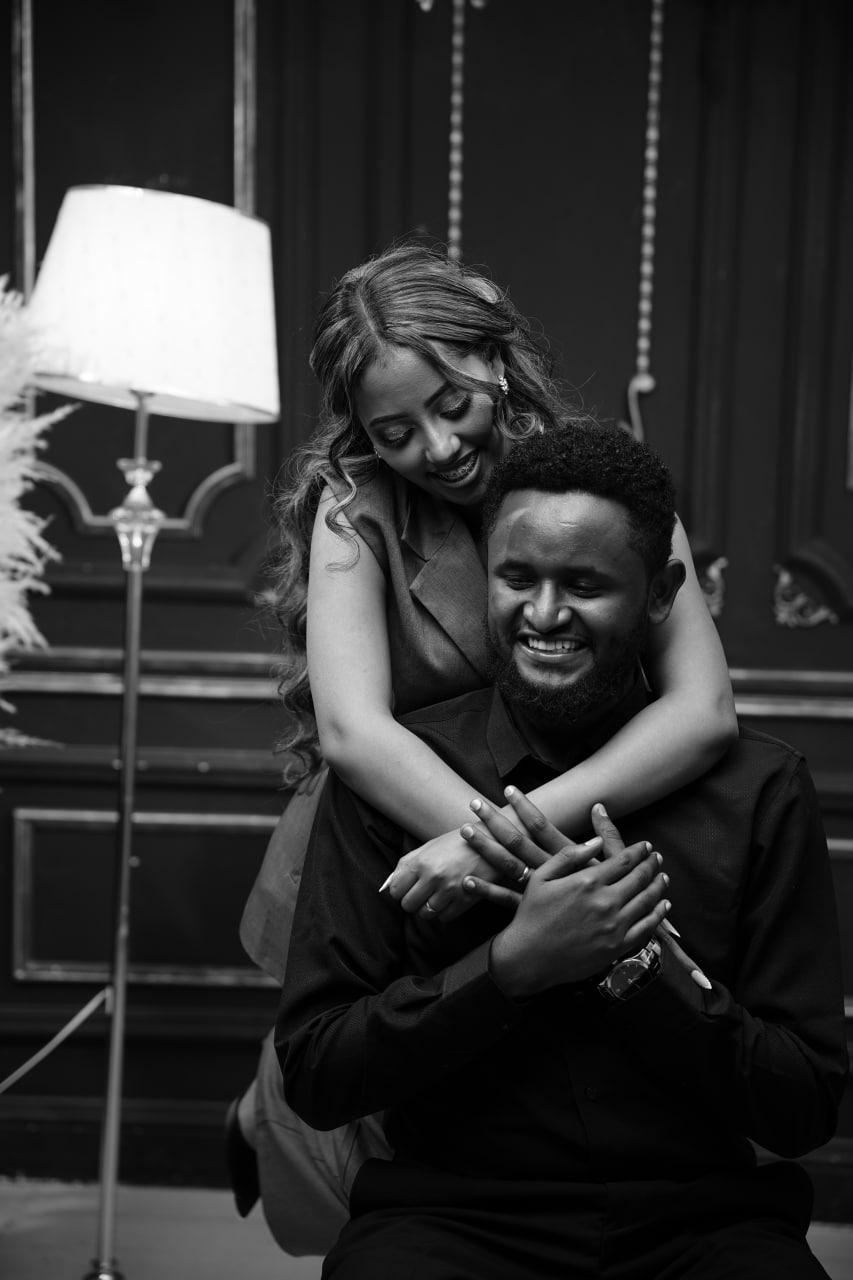
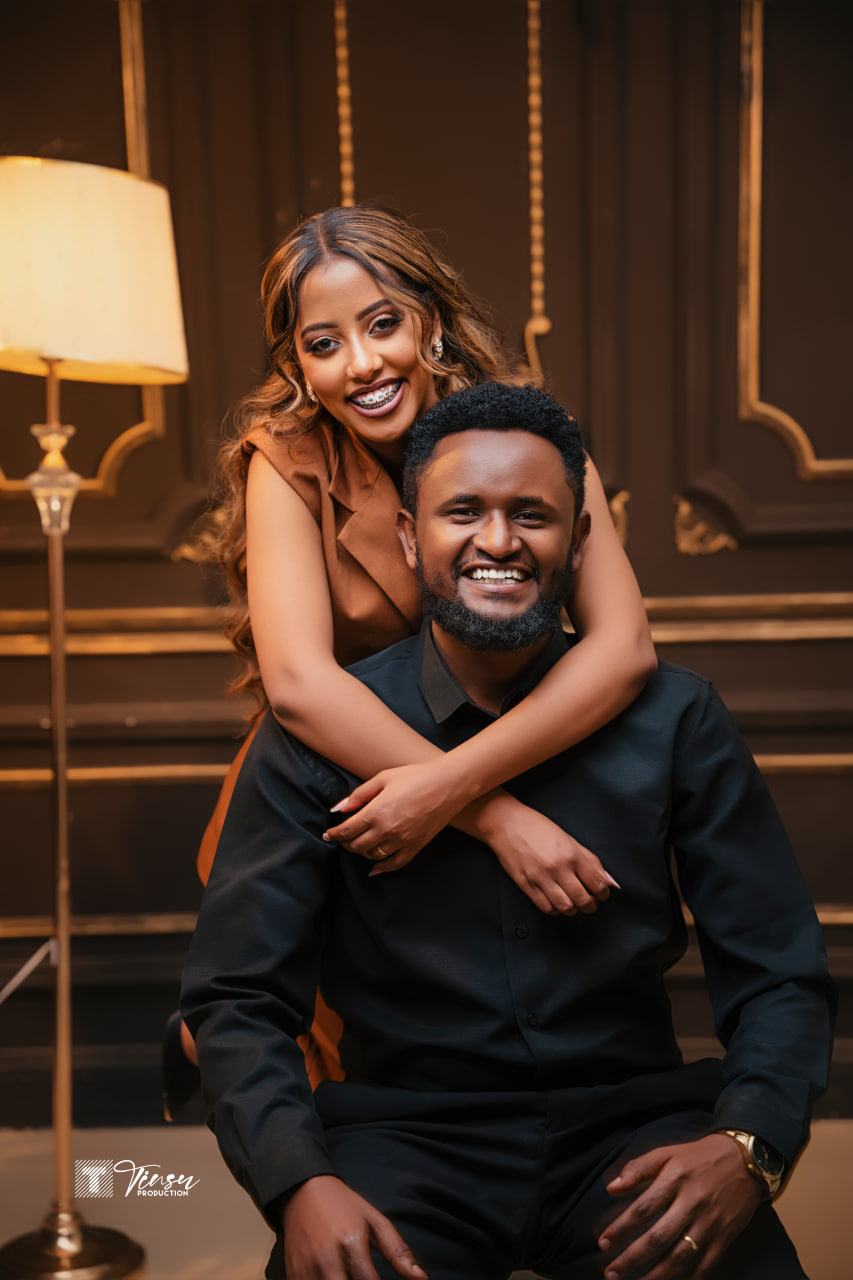
change image

diff --git a/src/components/OurStory.tsx b/src/components/OurStory.tsx
@@ -5,30 +5,30 @@ import story3 from "@/assets/story-3.jpg";
 import story4 from "@/assets/story-4.jpg";
 
 const milestones = [
-  {
-    year: "Hamle 24, 2016 E.C.",
-    title: "How We Met",
-    text: "Our story began at a Christian fellowship program at the university. Paul saw her for the very first time when he was invited to preach the Word of God, while she was serving as a leader in the fellowship. From that moment, something about her stood out, and as time passed, his feelings began to grow until he realized they were truly special.",
-    image: story1,
-  },
-  {
-    year: "Meskerem 21, 2017 E.C.",
-    title: "She Said Yes",
-    text: "With courage and hope, he asked her to go out and start dating. After some time of getting to know each other and growing closer, she said yes — a moment that filled their hearts with joy and marked the beginning of their journey together.",
-    image: story2,
-  },
-  {
-    year: "Meskerem 21,2018 E.C.",
-    title: "Our Engagement",
-    text: "Exactly year later, they took the next step and got engaged, celebrating a beautiful milestone that strengthened their commitment and love for one another.",
-    image: story3,
-  },
-  {
-    year: "Tikimt 2 → Miyazya 24, 2018 E.C.",
-    title: "Shemglena & Wedding",
-    text: "On Tikimt 2, the Shemglena request was formally sent, honoring family traditions and bringing both families together in preparation for the future. Now, with grateful hearts and deep love, they joyfully look forward to their wedding on Miyazya 24, 2028 E.C., the beginning of their lifelong journey together.",
-    image: story4,
-  },
+ {
+  year: "Hamle 24, 2016 E.C.",
+  title: "How We Met",
+  text: "Our story began at a Christian fellowship program at the university. We first met when Paul was invited to preach the Word of God, while I was serving as a leader in the fellowship. From that moment, something about that day stayed in our hearts, and as time passed, our connection grew into something truly special.",
+  image: story1,
+},
+{
+  year: "Meskerem 21, 2017 E.C.",
+  title: "She Said Yes",
+  text: "With courage and hope, we decided to take the first step and start dating. As we spent more time getting to know each other and growing closer, we said yes to beginning our journey together — a moment that filled our hearts with joy.",
+  image: story2,
+},
+{
+  year: "Meskerem 21, 2018 E.C.",
+  title: "Our Engagement",
+  text: "Exactly one year later, we took the next step and got engaged. It was a beautiful milestone that strengthened our commitment and deepened our love for one another.",
+  image: story3,
+},
+{
+  year: "Tikimt 2 → Miyazya 24, 2018 E.C.",
+  title: "Shemglena & Wedding",
+  text: "On Tikimt 2, the Shemglena request was formally sent, honoring our family traditions and bringing both families together in preparation for the future. Now, with grateful hearts and deep love, we joyfully look forward to our wedding on Miyazya 24, 2018 E.C., the beginning of our lifelong journey together.",
+  image: story4,
+},
 ];
 
 const TimelineItem = ({

diff --git a/index.html b/index.html
@@ -1,26 +1,26 @@
-<!doctype html>
-<html lang="en">
-  <head>
-    <meta charset="UTF-8" />
-    <meta name="viewport" content="width=device-width, initial-scale=1.0" />
+<head>
+  <meta charset="UTF-8" />
+  <meta name="viewport" content="width=device-width, initial-scale=1.0" />
 
-    <title>Paul & Hella — Wedding Invitation</title>
+  <title>Paul & Hella — Wedding Invitation</title>
 
-    <meta name="description"
-          content="Join us to celebrate the wedding of Paul & Hella on May 03, 2026 in Addis Ababa, Ethiopia." />
+  <meta name="description"
+        content="Join us to celebrate the wedding of Paul & Hella on May 03, 2026 in Addis Ababa, Ethiopia." />
 
-    <!-- FAVICON -->
-    <link rel="icon" type="image/png" href="/ring.png" />
+  <!-- FAVICON -->
+  <link rel="icon" type="image/png" href="/ring.png" />
 
-    <!-- Open Graph -->
-    <meta property="og:title" content="Paul & Hella Wedding" />
-    <meta property="og:description" content="Join us to celebrate our special day." />
-    <meta property="og:type" content="website" />
-    <meta property="og:image" content="/ring.png" />
-  </head>
+  <!-- Open Graph -->
+  <meta property="og:title" content="Paul & Hella — Wedding Invitation" />
+  <meta property="og:description" content="You are warmly invited to celebrate the wedding of Paul & Hella." />
+  <meta property="og:type" content="website" />
+  <meta property="og:site_name" content="Paul & Hella Wedding" />
+  <meta property="og:url" content="https://paulandhella.com/" />
+  <meta property="og:image" content="https://paulandhella.com/ring.png" />
 
-  <body>
-    <div id="root"></div>
-    <script type="module" src="/src/main.tsx"></script>
-  </body>
-</html>
+  <!-- Twitter Card -->
+  <meta name="twitter:card" content="summary_large_image" />
+  <meta name="twitter:title" content="Paul & Hella — Wedding Invitation" />
+  <meta name="twitter:description" content="Join us to celebrate our special day." />
+  <meta name="twitter:image" content="https://paulandhella.com/ring.png" />
+</head>

diff --git a/src/components/Events.tsx b/src/components/Events.tsx
@@ -5,26 +5,21 @@ const locationButtons = [
     label: "Groom's House",
     icon: "🏠",
     mapUrl:
-      "https://www.google.com/maps/search/Groom's+House+Addis+Ababa+Ethiopia",
+      "https://maps.google.com/maps?q=9.013470,38.806547&ll=9.013470,38.806547&z=16",
   },
   {
     label: "Bride's House",
     icon: "🏡",
     mapUrl:
-      "https://www.google.com/maps/search/Bride's+House+Addis+Ababa+Ethiopia",
+      "https://maps.google.com/maps?q=20.820685,0.000005&ll=20.820685,0.000005&z=16",
   },
   {
     label: "Church",
     icon: "⛪",
     mapUrl:
-      "https://www.google.com/maps/search/Holy+Trinity+Cathedral+Addis+Ababa+Ethiopia",
+      "https://maps.app.goo.gl/HQMDLRcDaSBEsLbv7",
   },
-  {
-    label: "Hotel",
-    icon: "🏨",
-    mapUrl:
-      "https://www.google.com/maps/search/Capital+Hotel+Spa+Addis+Ababa+Ethiopia",
-  },
+ 
 ];
 
 const Events = () => {

diff --git a/src/components/Navbar.tsx b/src/components/Navbar.tsx
@@ -62,7 +62,7 @@ const Navbar = () => {
 
       {/* Mobile menu */}
       <div
-        className={`md:hidden absolute top-full left-0 right-0 bg-background/98 backdrop-blur-lg shadow-xl transition-all duration-500 overflow-hidden ${
+        className={`md:hidden absolute top-full left-0 right-0 bg-background/98 backdrop-blur-sm shadow-xl transition-all duration-500 overflow-hidden ${
           isOpen ? "max-h-96 border-b border-secondary/20" : "max-h-0"
         }`}
       >

diff --git a/src/components/RSVPMarquee.tsx b/src/components/RSVPMarquee.tsx
@@ -14,7 +14,7 @@ const RSVPMarquee = () => {
     // Fetch messages from backend
     const fetchMessages = async () => {
       try {
-      const res = await fetch("https://api.paulandhella.components/api/rsvp");
+      const res = await fetch("https://api.paulandhella.com/api/rsvp");
         if (!res.ok) throw new Error("Failed to fetch messages");
         const data: RSVP[] = await res.json();
         setMessages(data.reverse()); // show newest first